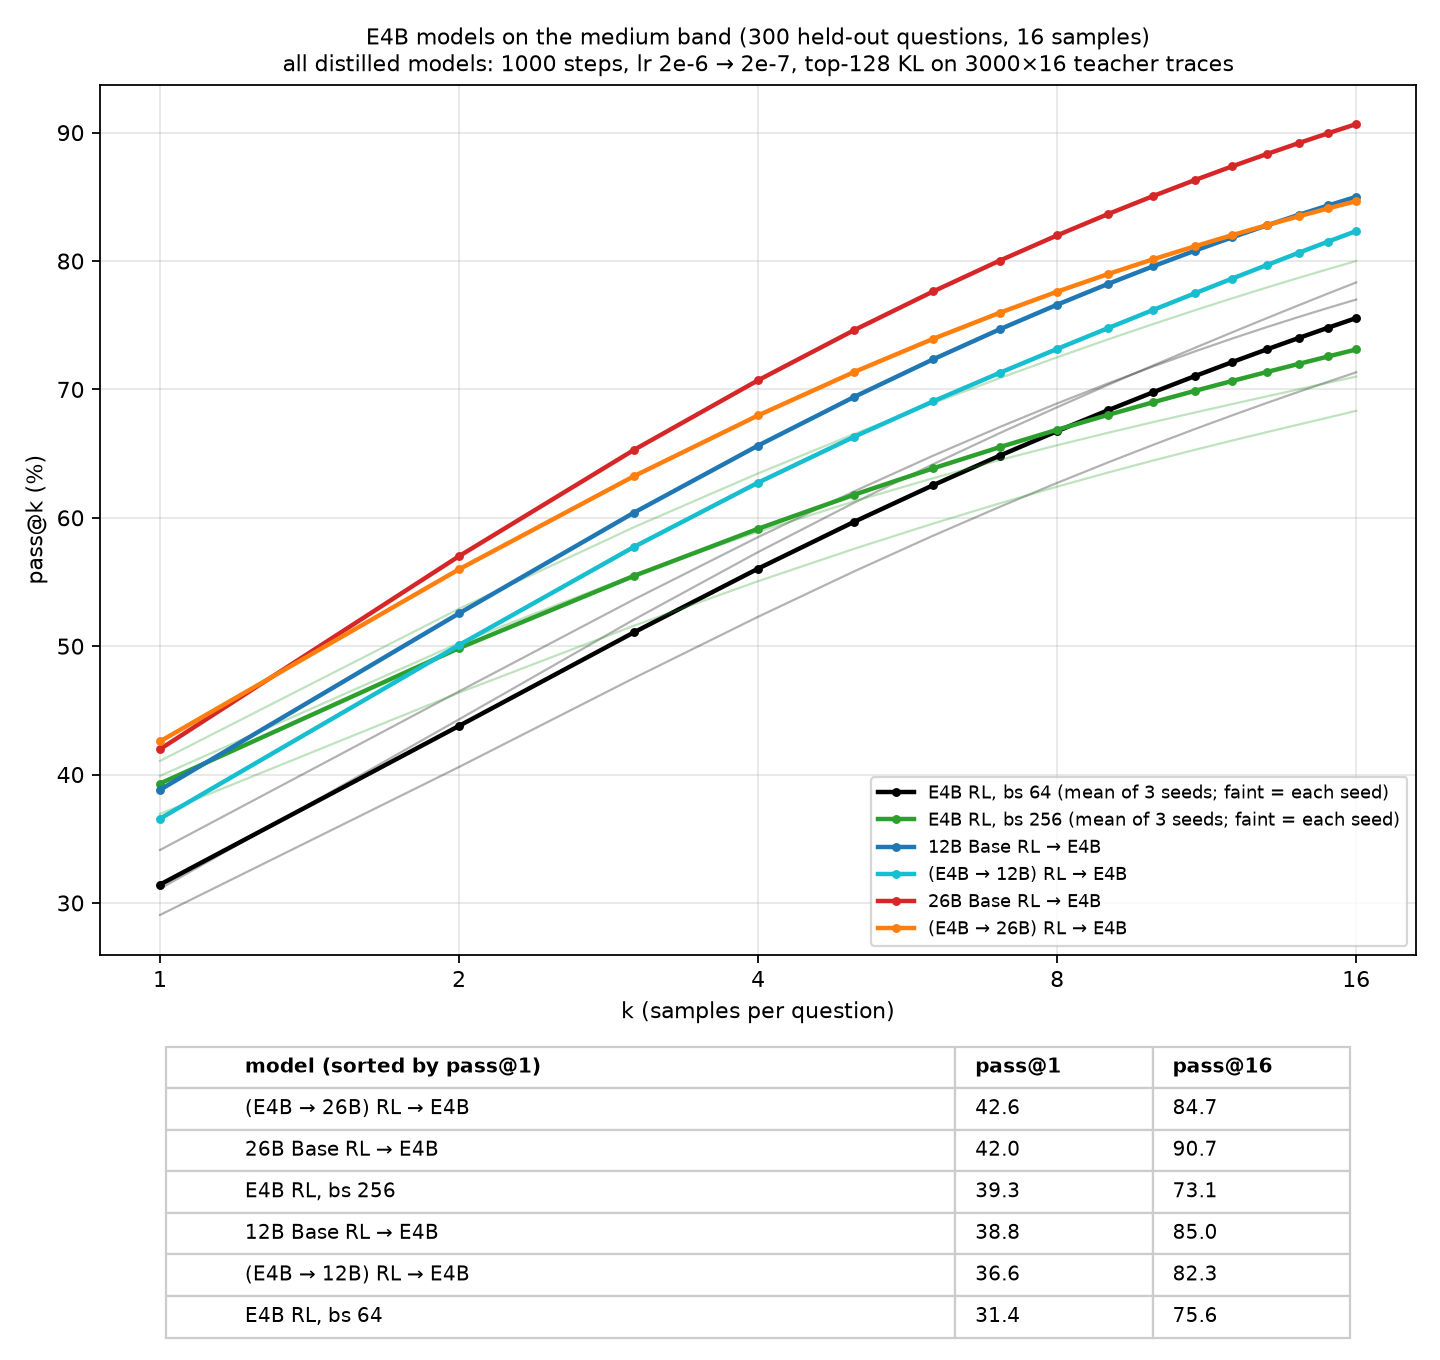
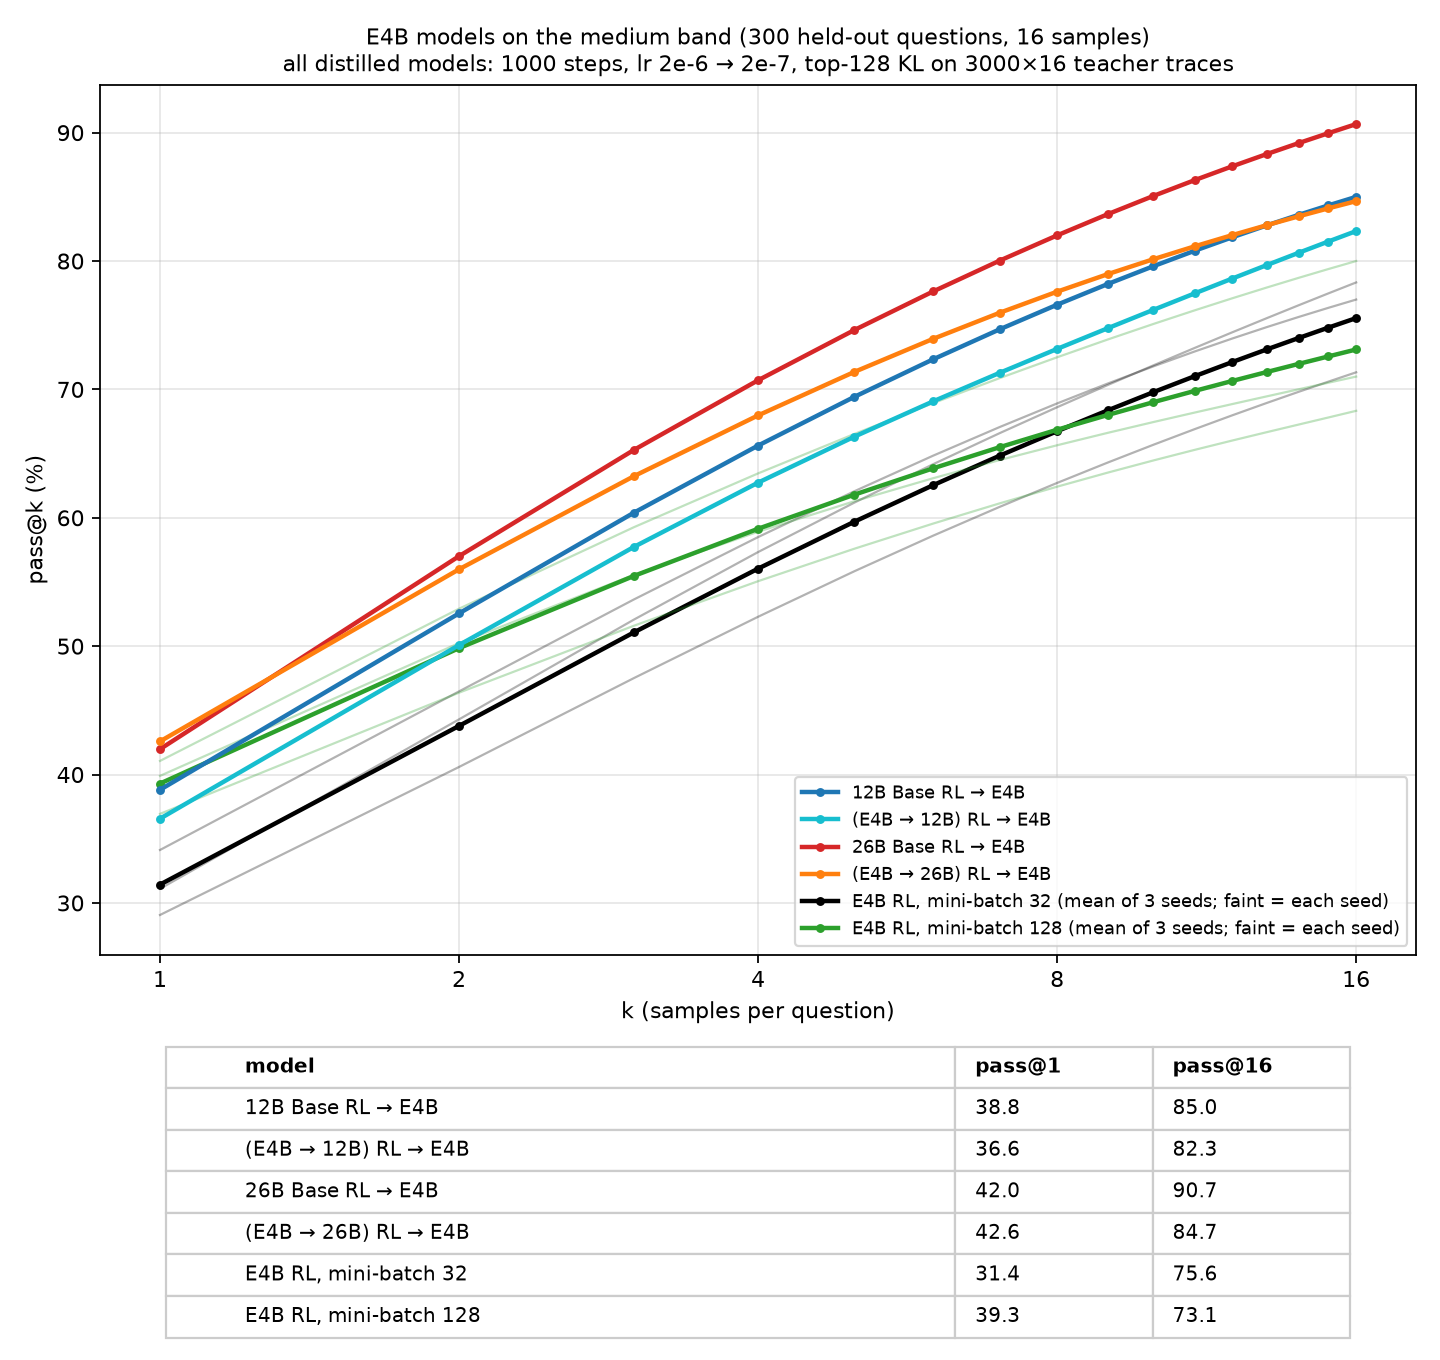
§9.0o summary figure: RL labelled by mini-batch (32/128), table grouped by category with E4B RL last

diff --git a/rl-distill-scripts/plot_medium_passk_summary.py b/rl-distill-scripts/plot_medium_passk_summary.py
@@ -2,7 +2,7 @@
 """One-panel id_medium pass@k summary of the E4B distillation study (§9.0o wrap-up).
 
 Curves (unbiased pass@k, Chen et al. 2021, from the per-sample math-eval traces, 300 questions × 16 samples):
-  E4B RL (bs 64, seeds 42/43/44) and E4B RL 4× batch (bs 256, seeds 45/46/47) as seed means with each seed as a faint line; a table of pass@1 / pass@16 sits under the plot; and the four 1000-step 2e-6 → 2e-7 distilled students — teacher = untrained-12B RL, off-policy-distilled-12B RL,
+  E4B RL (batch 64 / mini-batch 32, seeds 42/43/44) and E4B RL 4× (batch 256 / mini-batch 128, seeds 45/46/47) as seed means with each seed as a faint line; a table of pass@1 / pass@16 sits under the plot; and the four 1000-step 2e-6 → 2e-7 distilled students — teacher = untrained-12B RL, off-policy-distilled-12B RL,
   untrained-26B RL (warm-started run), off-policy-distilled-26B RL.
 
     python rl-distill-scripts/plot_medium_passk_summary.py [--out figures/passk_id_medium_summary.png]
@@ -30,8 +30,8 @@ SINGLES = [  # (tag, label, color)
     ("distill_26bd_lr2e6_medium_to_e4b_step1000", "(E4B → 26B) RL → E4B", "tab:orange"),
 ]
 GROUPS = [  # (tags, short label, color)
-    (["rl_e4b_medium", "rl_e4b_medium_s43", "rl_e4b_medium_s44"], "E4B RL, bs 64", "black"),
-    (["rl_e4b_medium_bs256_s45", "rl_e4b_medium_bs256_s46", "rl_e4b_medium_bs256_s47"], "E4B RL, bs 256", "tab:green"),
+    (["rl_e4b_medium", "rl_e4b_medium_s43", "rl_e4b_medium_s44"], "E4B RL, mini-batch 32", "black"),
+    (["rl_e4b_medium_bs256_s45", "rl_e4b_medium_bs256_s46", "rl_e4b_medium_bs256_s47"], "E4B RL, mini-batch 128", "tab:green"),
 ]
 
 def pass_at_k_curve(tag: str) -> np.ndarray:
@@ -75,10 +75,10 @@ def main() -> int:
         ax.plot(ks, curve, color=color, lw=2, marker="o", ms=3, label=label)
         p1[label], p16[label] = curve[0], curve[-1]
         print(f"{label}: pass@1 {curve[0]:.1f}  pass@16 {curve[-1]:.1f}")
-    order = sorted(p1, key=p1.get, reverse=True)
+    order = [label for _, label, _ in SINGLES] + [label for _, label, _ in GROUPS]  # distilled students by teacher, then E4B RL
     cells = [[label, f"{p1[label]:.1f}", f"{p16[label]:.1f}"] for label in order]
     tbl.axis("off")
-    table = tbl.table(cellText=cells, colLabels=["model (sorted by pass@1)", "pass@1", "pass@16"], loc="center", cellLoc="left", colLoc="left", colWidths=[0.6, 0.15, 0.15])
+    table = tbl.table(cellText=cells, colLabels=["model", "pass@1", "pass@16"], loc="center", cellLoc="left", colLoc="left", colWidths=[0.6, 0.15, 0.15])
     table.auto_set_font_size(False)
     table.set_fontsize(9)
     table.scale(1, 1.3)
@@ -95,7 +95,9 @@ def main() -> int:
     ax.set_ylabel("pass@k (%)")
     ax.set_title("E4B models on the medium band (300 held-out questions, 16 samples)\nall distilled models: 1000 steps, lr 2e-6 → 2e-7, top-128 KL on 3000×16 teacher traces", fontsize=10)
     ax.grid(alpha=0.3, which="both")
-    ax.legend(fontsize=8, loc="lower right")
+    handles, labels = ax.get_legend_handles_labels()
+    n_groups = len(GROUPS)
+    ax.legend(handles[n_groups:] + handles[:n_groups], labels[n_groups:] + labels[:n_groups], fontsize=8, loc="lower right")
     fig.tight_layout()
     fig.savefig(args.out, dpi=160)
     print(f"wrote {args.out}")
